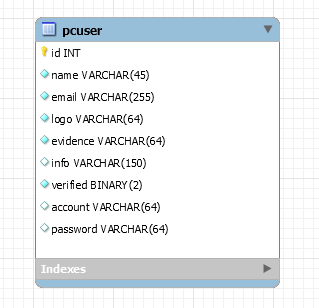
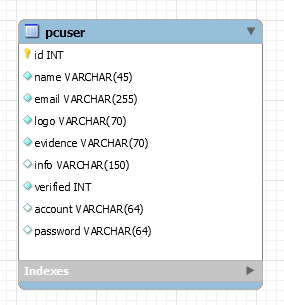
数据库字段修改

diff --git a/iteration_3/第三次迭代技术说明文档.md b/iteration_3/第三次迭代技术说明文档.md
@@ -9,7 +9,7 @@
 - logo: 组织logo文件名，非空
 - evidence: 身份证明文件名，非空
 - info: 备注信息，可以为空
-- verified: 是否通过管理员审核，b00表示暂未审核，b01表示审核通过，b10表示拒绝，非空，默认为b00
+- verified: 是否通过管理员审核，b00表示暂未审核，b01表示审核通过，b10表示拒绝，非空，默认为b00（若为int，则为二进制对应的十进制值0，1，2）
 - account: 用户名，用以登陆，由管理员审核某社团组织通过后通过邮箱发送给社团组织，可以为空，unique约束
 - password: 密码，用以登陆，初始密码由管理员审核某社团组织通过后通过邮箱发送给社团组织，可以为空
 
@@ -18,7 +18,7 @@
 - 上传的logo和身份证明有且只能有一张，意思是必须上传并且只能上传一张
 - 返回200说明注册信息上传成功
 - 返回400说明出现错误
-- **【若有其他错误HTTP CODE情况待补充...】**
+- **【若有其他错误HTTP CODE情况请补充...】**
 
 ## 登陆API说明
 - 前端传入Request在headers中有Authorization属性，里面包含了token，便于根据token自动登陆，Authorizaition属性也可以为空，则用户直接用用户名和密码登陆
@@ -27,14 +27,14 @@
 - 返回json串，请参照**后台数据表说明**，其中返回的logo文件名可直接通过静态资源服务器获取（例子：https://sysuactivity.com/static/cd8e81b37de299ef1c2615f0b2ef3aba.png）
 - 返回204说明用户不存在
 - 返回400说明出现错误
-- **【若有其他错误HTTP CODE情况待补充...】**
+- **【若有其他错误HTTP CODE情况请补充...】**
 
 ## 图片上传API说明
 - 前端Request的Content-type为multipart/form-data，上传图片的multipartfile
 - multipartfile：[what is http multipart request](https://stackoverflow.com/questions/16958448/what-is-http-multipart-request)
 - 返回一个json串，filename即上传的文件的加密后的文件名（意思是原文件名被上传后会被加密，然后加密后的串作为新文件名存储以及返回）
 - 返回400说明出现错误
-- **【若有其他错误HTTP CODE情况待补充...】**
+- **【若有其他错误HTTP CODE情况请补充...】**
 
 ## 用户退出
 - 直接前端清除cookie中保存的token，退出到登陆页面
